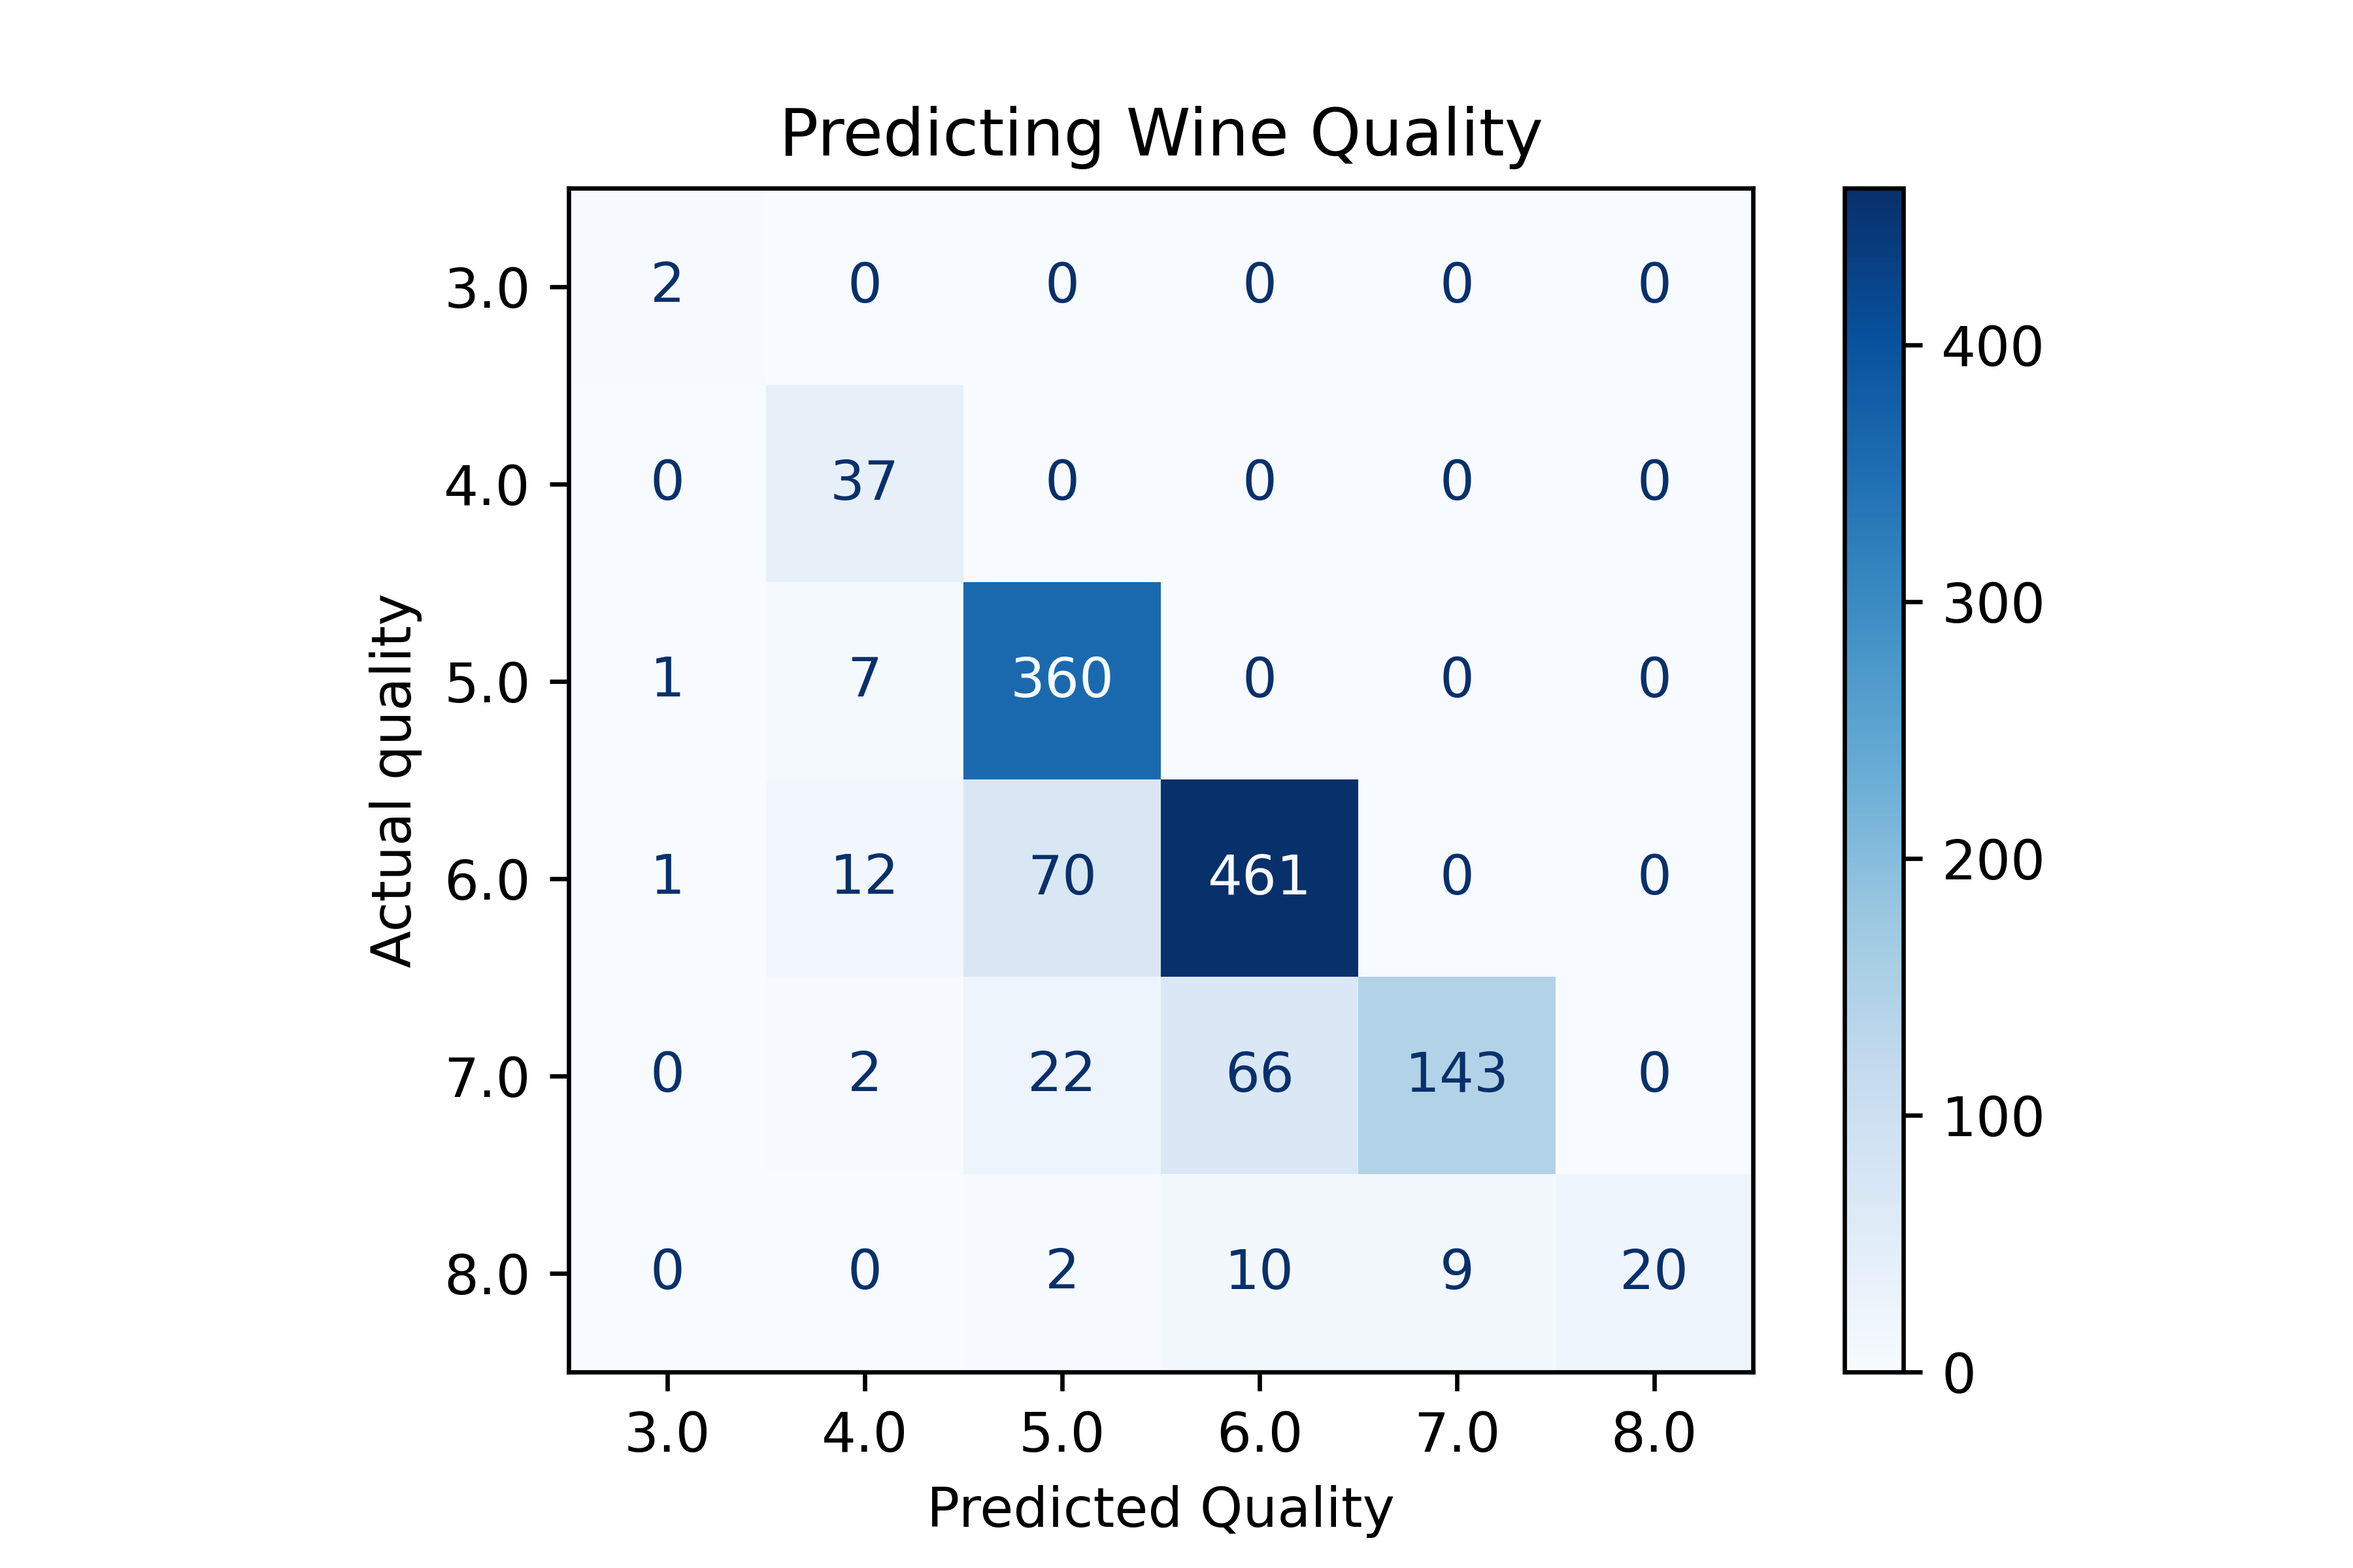
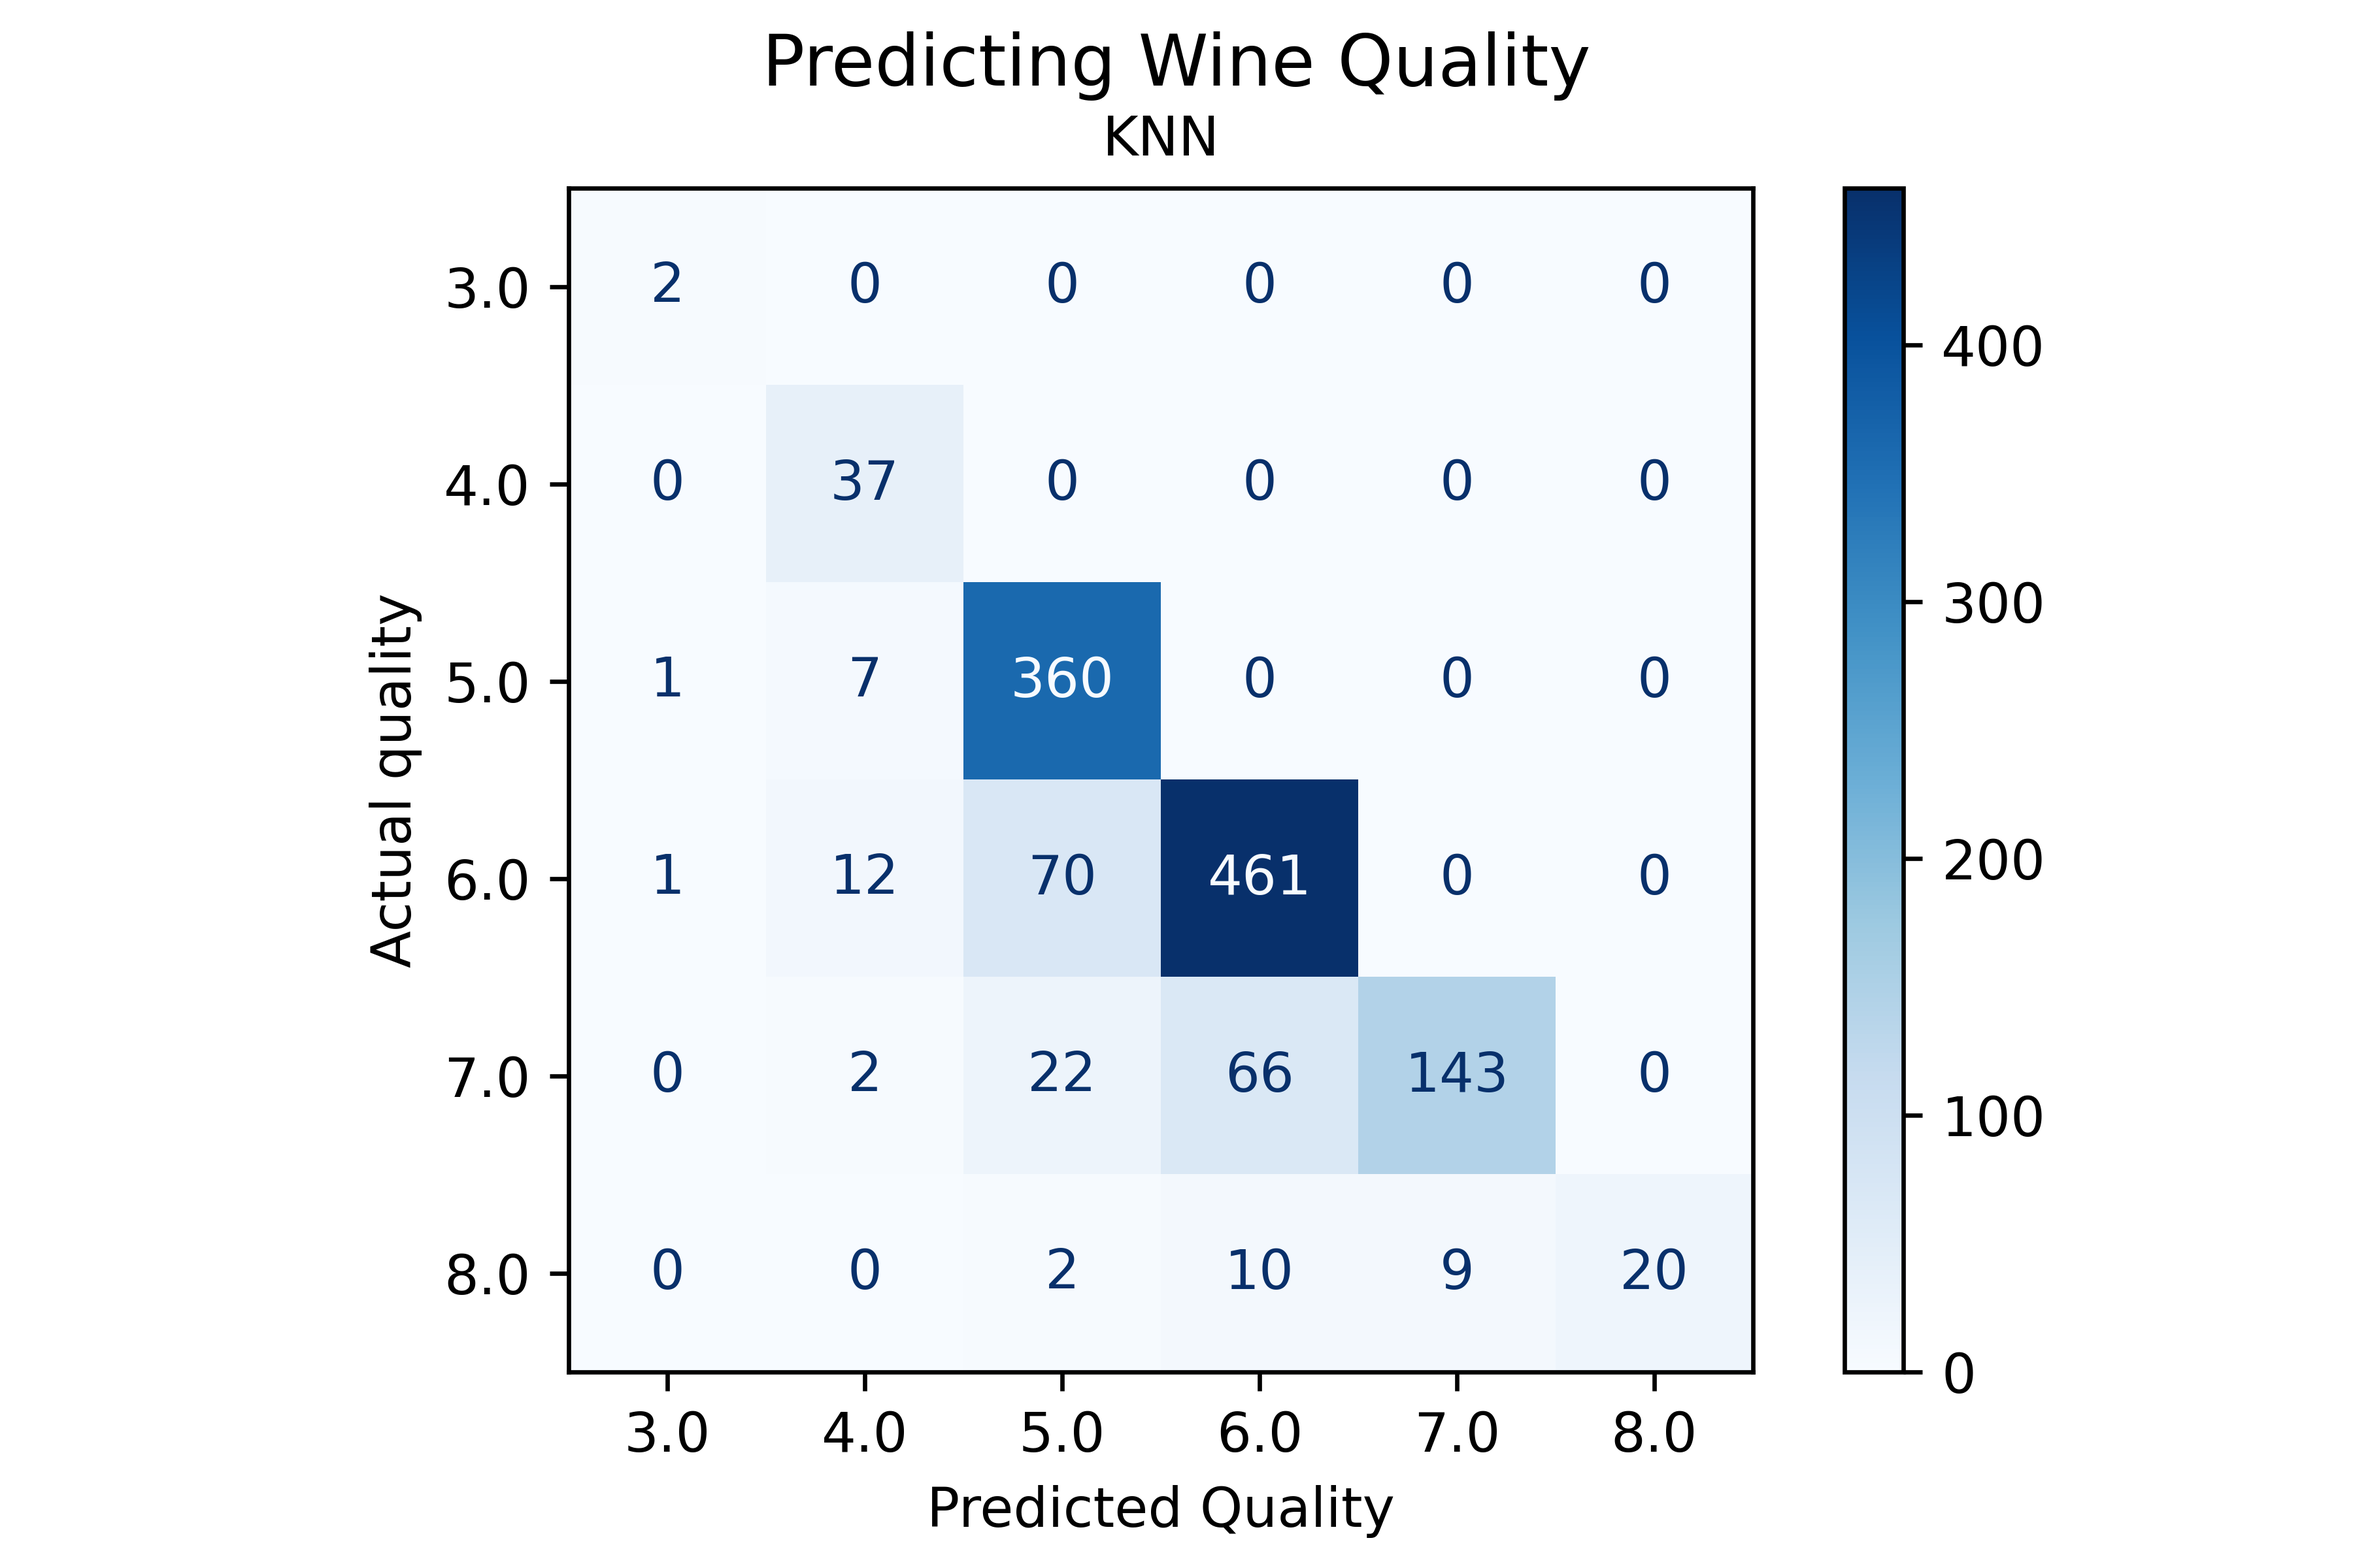
Visualisations

Changed region(s): [[0.3111, 0.0312, 0.6844, 0.125]]

diff --git a/Cleaning,exploring,models.py b/Cleaning,exploring,models.py
@@ -89,9 +89,16 @@ import matplotlib.pyplot as plt
 plot_confusion_matrix(knn_fin, X_test, Y_test, cmap=plt.cm.Blues)
 plt.xlabel('Predicted Quality')
 plt.ylabel('Actual quality')
-plt.title('Predicting Wine Quality')
+plt.suptitle('Predicting Wine Quality',fontsize=13)
+plt.title('KNN',fontsize=10)
 plt.savefig('cm',dpi=600)
 
+plot_confusion_matrix(model2, X_test, Y_test, cmap=plt.cm.Blues)
+plt.xlabel('Predicted Quality')
+plt.ylabel('Actual quality')
+plt.suptitle('Predicting Wine Quality',fontsize=13)
+plt.title('Logistic Regression',)
+plt.savefig('logistic_cm',dpi=600)
 
 mean_squared_error(Y_test,y_pred3).round(2)
 mean_absolute_error(Y_test,y_pred).round(2)
